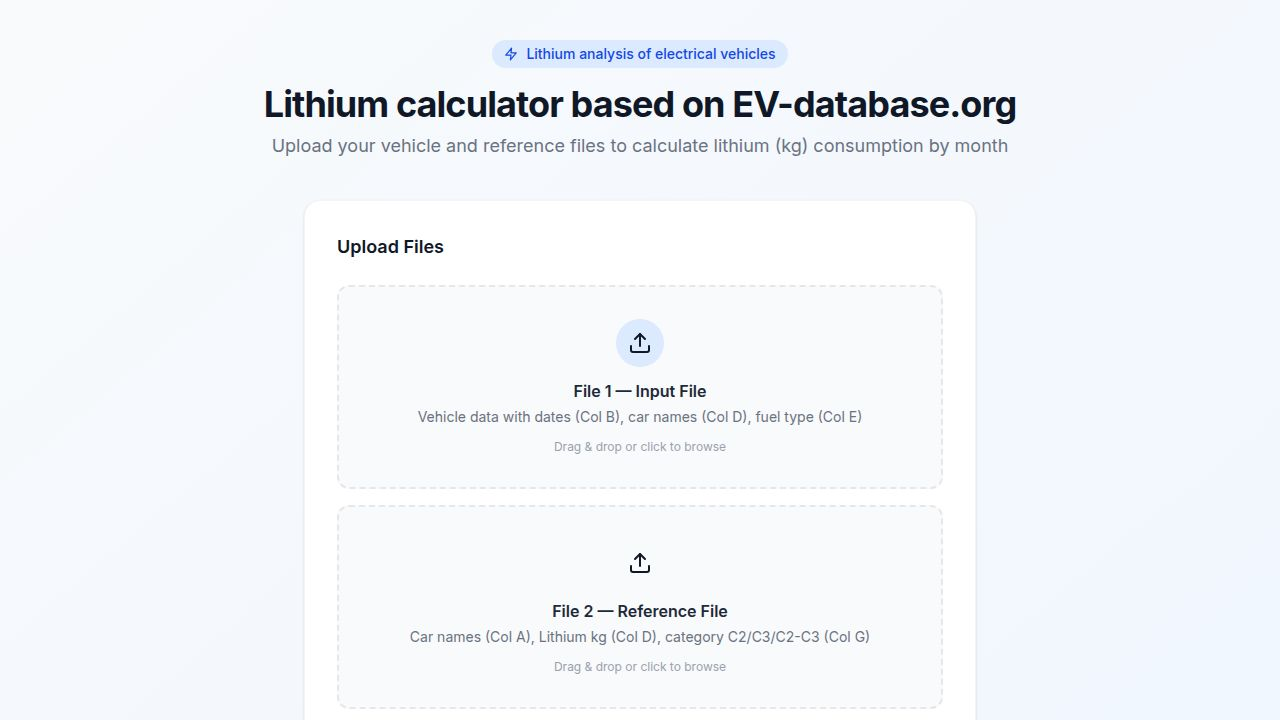
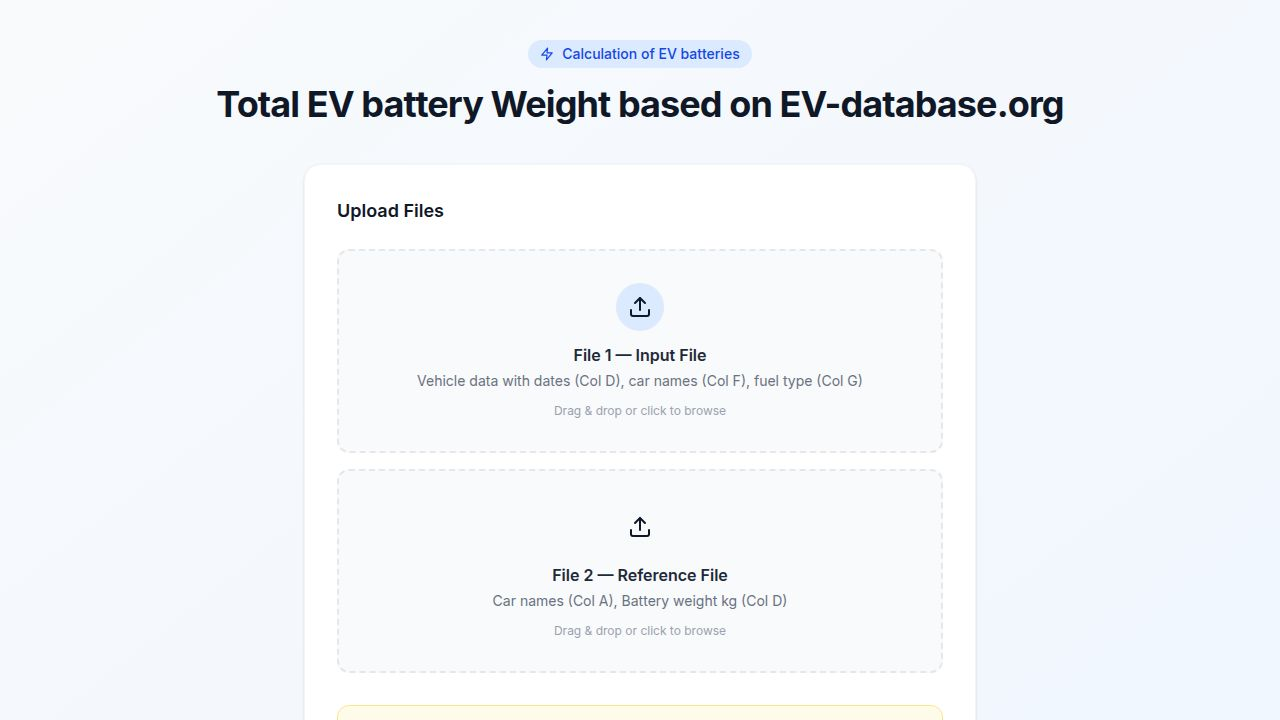
Simplify car categorization to matched and unmatched
Remove C2, C3, and C2-C3 categories from Excel export and processing logic, replacing them with a simple "Matched" and "No Match" system.

Replit-Commit-Author: Agent
Replit-Commit-Session-Id: ef20e8f8-7d16-497f-a13b-c1d2d5616284
Replit-Commit-Checkpoint-Type: full_checkpoint
Replit-Commit-Event-Id: 10f48119-1230-4489-871b-1c67aef254b3
Replit-Commit-Screenshot-Url: https://storage.googleapis.com/screenshot-production-us-central1/1116d27e-45b2-4f82-9b07-3ee6cd742f94/ef20e8f8-7d16-497f-a13b-c1d2d5616284/auphynd
Replit-Helium-Checkpoint-Created: true

diff --git a/artifacts/lithium-tracker/src/pages/home.tsx b/artifacts/lithium-tracker/src/pages/home.tsx
@@ -1,17 +1,8 @@
 import { useState, useCallback, useMemo } from "react";
-import { parseInputFile, parseReferenceFile, MonthSummary, ProcessedRow, ReferenceRow, Category } from "@/lib/excelProcessor";
+import { parseInputFile, parseReferenceFile, MonthSummary, ProcessedRow, ReferenceRow } from "@/lib/excelProcessor";
 import { exportToExcel } from "@/lib/excelExport";
 
 type Step = "upload" | "processing" | "results";
-
-const CATEGORY_STYLE: Record<Category, { header: string; accent: string }> = {
-  C2:      { header: "bg-violet-50 border-violet-200", accent: "text-violet-700" },
-  C3:      { header: "bg-teal-50 border-teal-200",     accent: "text-teal-700" },
-  "C2-C3": { header: "bg-amber-50 border-amber-200",   accent: "text-amber-700" },
-  Other:   { header: "bg-gray-50 border-gray-200",     accent: "text-gray-500" },
-};
-
-const CATEGORIES: Category[] = ["C2", "C3", "C2-C3"];
 
 function UploadIcon() {
   return (
@@ -109,44 +100,33 @@ function MonthCard({ summary, onClick, isSelected, extraLithium }: { summary: Mo
         <span className="text-2xl font-bold text-gray-900">
           {displayTotal.toFixed(2)}
         </span>
-        <span className="text-sm text-gray-500 ml-1">kg Li</span>
+        <span className="text-sm text-gray-500 ml-1">kg</span>
       </div>
     </button>
   );
 }
 
-function VehicleTable({
-  monthName,
-  label,
-  headerClass,
-  accentClass,
-  tableRows,
-}: {
-  monthName: string;
-  label: string;
-  headerClass: string;
-  accentClass: string;
-  tableRows: ProcessedRow[];
-}) {
-  const total = tableRows.reduce((s, r) => s + (r.lithiumKg ?? 0), 0);
+function MatchedTable({ monthName, rows }: { monthName: string; rows: ProcessedRow[] }) {
+  const matchedRows = rows.filter((r) => r.matchedCar !== undefined);
+  const total = matchedRows.reduce((s, r) => s + (r.lithiumKg ?? 0), 0);
 
   return (
     <div className="bg-white rounded-2xl shadow-sm border border-gray-100 overflow-hidden">
-      <div className={`flex items-center justify-between px-6 py-3 border-b ${headerClass}`}>
+      <div className="flex items-center justify-between px-6 py-3 border-b bg-green-50 border-green-200">
         <h3 className="font-semibold text-gray-900">
           {monthName} — Vehicle Details{" "}
-          <span className={`font-bold ${accentClass}`}>{label}</span>
+          <span className="font-bold text-green-700">Matched</span>
         </h3>
         <span className="text-sm text-gray-500">
-          {tableRows.length} vehicles
+          {matchedRows.length} vehicles
           {total > 0 && (
-            <> · <span className={`font-semibold ${accentClass}`}>{total.toFixed(2)} kg</span></>
+            <> · <span className="font-semibold text-green-700">{total.toFixed(2)} kg</span></>
           )}
         </span>
       </div>
 
-      {tableRows.length === 0 ? (
-        <p className="text-center text-gray-400 py-6 text-sm">No vehicles in this category.</p>
+      {matchedRows.length === 0 ? (
+        <p className="text-center text-gray-400 py-6 text-sm">No matched vehicles.</p>
       ) : (
         <div className="overflow-x-auto">
           <table className="w-full text-sm">
@@ -159,19 +139,13 @@ function VehicleTable({
               </tr>
             </thead>
             <tbody>
-              {tableRows.map((row, i) => (
+              {matchedRows.map((row, i) => (
                 <tr key={i} className={`border-b border-gray-100 ${i % 2 === 0 ? "bg-white" : "bg-gray-50"}`}>
                   <td className="py-2 px-4 text-gray-800 font-medium">{row.carName}</td>
-                  <td className="py-2 px-4 text-gray-600">
-                    {row.matchedCar ?? <span className="text-gray-400 italic">No match</span>}
-                  </td>
+                  <td className="py-2 px-4 text-gray-600">{row.matchedCar}</td>
                   <td className="py-2 px-4 text-center"><MatchBadge score={row.matchScore} /></td>
                   <td className="py-2 px-4 text-right font-mono">
-                    {row.lithiumKg !== undefined ? (
-                      <span className="font-semibold text-gray-800">{row.lithiumKg.toFixed(2)}</span>
-                    ) : (
-                      <span className="text-gray-400">—</span>
-                    )}
+                    <span className="font-semibold text-gray-800">{(row.lithiumKg ?? 0).toFixed(2)}</span>
                   </td>
                 </tr>
               ))}
@@ -190,19 +164,6 @@ function VehicleTable({
         </div>
       )}
     </div>
-  );
-}
-
-function CategoryTable({ monthName, category, rows }: { monthName: string; category: Category; rows: ProcessedRow[] }) {
-  const style = CATEGORY_STYLE[category];
-  return (
-    <VehicleTable
-      monthName={monthName}
-      label={category}
-      headerClass={style.header}
-      accentClass={style.accent}
-      tableRows={rows.filter((r) => r.category === category)}
-    />
   );
 }
 
@@ -244,14 +205,14 @@ function NoMatchTable({
       </div>
 
       {noMatchRows.length === 0 ? (
-        <p className="text-center text-gray-400 py-6 text-sm">No vehicles in this category.</p>
+        <p className="text-center text-gray-400 py-6 text-sm">No unmatched vehicles.</p>
       ) : (
         <div className="overflow-x-auto">
           <table className="w-full text-sm">
             <thead>
               <tr className="border-b border-gray-100">
                 <th className="text-left py-2 px-4 text-gray-500 font-medium">Car (File 1)</th>
-                <th className="text-right py-2 px-4 text-gray-500 font-medium">Lithium (kg) — enter manually</th>
+                <th className="text-right py-2 px-4 text-gray-500 font-medium">Battery (total Kg) — enter manually</th>
               </tr>
             </thead>
             <tbody>
@@ -393,7 +354,7 @@ export default function Home() {
                 />
                 <FileDropZone
                   label="File 2 — Reference File"
-                  description="Car names (Col A), Lithium kg (Col D), category C2/C3/C2-C3 (Col G)"
+                  description="Car names (Col A), Battery weight kg (Col D)"
                   file={referenceFile}
                   onFile={setReferenceFile}
                   accent="purple"
@@ -407,7 +368,6 @@ export default function Home() {
                   <li>Only rows where Column G is blank or "El" are kept</li>
                   <li>Dates in Column D (YYYY-MM-DD) are split into 12 months</li>
                   <li>Car names (Column F) matched with ≥50% similarity to File 2</li>
-                  <li>Each matched car is categorised (C2, C3, C2-C3) from Column G of File 2</li>
                 </ul>
               </div>
 
@@ -442,7 +402,7 @@ export default function Home() {
               <div>
                 <h2 className="text-2xl font-bold text-gray-900">Results</h2>
                 <p className="text-gray-500 text-sm mt-1">
-                  Total lithium across all months:{" "}
+                  Total battery weight across all months:{" "}
                   <span className="font-semibold text-blue-700">{totalAllMonths.toFixed(2)} kg</span>
                 </p>
               </div>
@@ -488,14 +448,10 @@ export default function Home() {
               </div>
 
               <div className="lg:col-span-3 space-y-4">
-                {CATEGORIES.map((cat) => (
-                  <CategoryTable
-                    key={cat}
-                    monthName={selectedSummary?.monthName ?? ""}
-                    category={cat}
-                    rows={selectedSummary?.rows ?? []}
-                  />
-                ))}
+                <MatchedTable
+                  monthName={selectedSummary?.monthName ?? ""}
+                  rows={selectedSummary?.rows ?? []}
+                />
                 <NoMatchTable
                   monthName={selectedSummary?.monthName ?? ""}
                   rows={selectedSummary?.rows ?? []}

diff --git a/artifacts/lithium-tracker/src/lib/excelExport.ts b/artifacts/lithium-tracker/src/lib/excelExport.ts
@@ -1,12 +1,10 @@
 import * as XLSX from "xlsx";
-import type { MonthSummary, Category } from "./excelProcessor";
+import type { MonthSummary } from "./excelProcessor";
 
 const MONTH_NAMES = [
   "January", "February", "March", "April", "May", "June",
   "July", "August", "September", "October", "November", "December"
 ];
-
-const CATEGORIES: Category[] = ["C2", "C3", "C2-C3"];
 
 export function exportToExcel(
   monthlySummaries: MonthSummary[],
@@ -15,33 +13,29 @@ export function exportToExcel(
   const wb = XLSX.utils.book_new();
 
   const summaryData: (string | number)[][] = [
-    ["Month", "C2 (kg)", "C3 (kg)", "C2-C3 (kg)", "No Match (kg)", "Total (kg)", "Vehicles"],
+    ["Month", "Matched (kg)", "No Match (kg)", "Total (kg)", "Vehicles"],
   ];
 
-  let grandC2 = 0, grandC3 = 0, grandC2C3 = 0, grandNoMatch = 0, grandTotal = 0, grandVehicles = 0;
+  let grandMatched = 0, grandNoMatch = 0, grandTotal = 0, grandVehicles = 0;
 
   for (const s of monthlySummaries) {
-    const c2 = s.rows.filter(r => r.category === "C2").reduce((a, r) => a + (r.lithiumKg ?? 0), 0);
-    const c3 = s.rows.filter(r => r.category === "C3").reduce((a, r) => a + (r.lithiumKg ?? 0), 0);
-    const c2c3 = s.rows.filter(r => r.category === "C2-C3").reduce((a, r) => a + (r.lithiumKg ?? 0), 0);
+    const matched = s.rows.filter(r => r.matchedCar !== undefined).reduce((a, r) => a + (r.lithiumKg ?? 0), 0);
     const noMatchRows = s.rows.filter(r => r.matchedCar === undefined);
     const noMatch = noMatchRows.reduce((a, r) => {
       const key = `${s.month}-${s.rows.indexOf(r)}`;
       return a + (manualLithium[key] ?? r.lithiumKg ?? 0);
     }, 0);
-    const total = c2 + c3 + c2c3 + noMatch;
+    const total = matched + noMatch;
 
-    grandC2 += c2;
-    grandC3 += c3;
-    grandC2C3 += c2c3;
+    grandMatched += matched;
     grandNoMatch += noMatch;
     grandTotal += total;
     grandVehicles += s.rowCount;
 
-    summaryData.push([s.monthName, c2, c3, c2c3, noMatch, total, s.rowCount]);
+    summaryData.push([s.monthName, matched, noMatch, total, s.rowCount]);
   }
 
-  summaryData.push(["Grand Total", grandC2, grandC3, grandC2C3, grandNoMatch, grandTotal, grandVehicles]);
+  summaryData.push(["Grand Total", grandMatched, grandNoMatch, grandTotal, grandVehicles]);
 
   const summarySheet = XLSX.utils.aoa_to_sheet(summaryData);
   XLSX.utils.book_append_sheet(wb, summarySheet, "Monthly Summary");
@@ -49,17 +43,15 @@ export function exportToExcel(
   for (const s of monthlySummaries) {
     if (s.rowCount === 0) continue;
 
-    for (const cat of CATEGORIES) {
-      const catRows = s.rows.filter(r => r.category === cat);
-      if (catRows.length === 0) continue;
-
+    const matchedRows = s.rows.filter(r => r.matchedCar !== undefined);
+    if (matchedRows.length > 0) {
       const data: (string | number)[][] = [
-        ["Car (File 1)", "Matched Car (File 2)", "Match %", "Lithium (kg)"],
+        ["Car (File 1)", "Matched Car (File 2)", "Match %", "Battery (total Kg)"],
       ];
-      let catTotal = 0;
-      for (const r of catRows) {
+      let matchedTotal = 0;
+      for (const r of matchedRows) {
         const li = r.lithiumKg ?? 0;
-        catTotal += li;
+        matchedTotal += li;
         data.push([
           r.carName,
           r.matchedCar ?? "",
@@ -67,9 +59,9 @@ export function exportToExcel(
           li,
         ]);
       }
-      data.push(["Total", "", "", catTotal]);
+      data.push(["Total", "", "", matchedTotal]);
 
-      const sheetName = `${MONTH_NAMES[s.month - 1].substring(0, 3)} ${cat}`;
+      const sheetName = `${MONTH_NAMES[s.month - 1].substring(0, 3)} Matched`;
       const sheet = XLSX.utils.aoa_to_sheet(data);
       XLSX.utils.book_append_sheet(wb, sheet, sheetName);
     }
@@ -77,7 +69,7 @@ export function exportToExcel(
     const noMatchRows = s.rows.filter(r => r.matchedCar === undefined);
     if (noMatchRows.length > 0) {
       const data: (string | number)[][] = [
-        ["Car (File 1)", "Lithium (kg) - Manual"],
+        ["Car (File 1)", "Battery (total Kg) - Manual"],
       ];
       let nmTotal = 0;
       for (const r of noMatchRows) {

diff --git a/artifacts/lithium-tracker/src/lib/excelProcessor.ts b/artifacts/lithium-tracker/src/lib/excelProcessor.ts
@@ -1,10 +1,7 @@
 import * as XLSX from "xlsx";
 
-export type Category = "C2" | "C3" | "C2-C3" | "Other";
-
 export interface ProcessedRow {
   month: number;
-  category: Category;
   carName: string;
   rawDate: string;
   matchedCar?: string;
@@ -15,7 +12,6 @@ export interface ProcessedRow {
 export interface ReferenceRow {
   carName: string;
   lithiumKg: number;
-  category: Category;
 }
 
 export interface MonthSummary {
@@ -30,14 +26,6 @@ const MONTH_NAMES = [
   "January", "February", "March", "April", "May", "June",
   "July", "August", "September", "October", "November", "December"
 ];
-
-function normalizeCategory(raw: string): Category {
-  const s = raw.trim().toUpperCase().replace(/\s+/g, "");
-  if (s === "C2-C3" || s === "C2C3") return "C2-C3";
-  if (s === "C2") return "C2";
-  if (s === "C3") return "C3";
-  return "Other";
-}
 
 function normalizeCarName(name: string): string {
   return name
@@ -121,10 +109,9 @@ export function parseReferenceFile(file: File): Promise<ReferenceRow[]> {
           const carName = String(row[0] ?? "").trim();
           const lithiumRaw = row[3];
           const lithiumKg = typeof lithiumRaw === "number" ? lithiumRaw : parseFloat(String(lithiumRaw ?? ""));
-          const categoryRaw = String(row[6] ?? "").trim();
 
           if (!carName || carName === "" || isNaN(lithiumKg)) continue;
-          result.push({ carName, lithiumKg, category: normalizeCategory(categoryRaw) });
+          result.push({ carName, lithiumKg });
         }
         resolve(result);
       } catch (err) {
@@ -181,7 +168,6 @@ export function parseInputFile(
           const match = findBestMatch(colF, references);
           const processed: ProcessedRow = {
             month,
-            category: match?.ref.category ?? "Other",
             carName: colF,
             rawDate: colD,
             matchedCar: match?.ref.carName,
